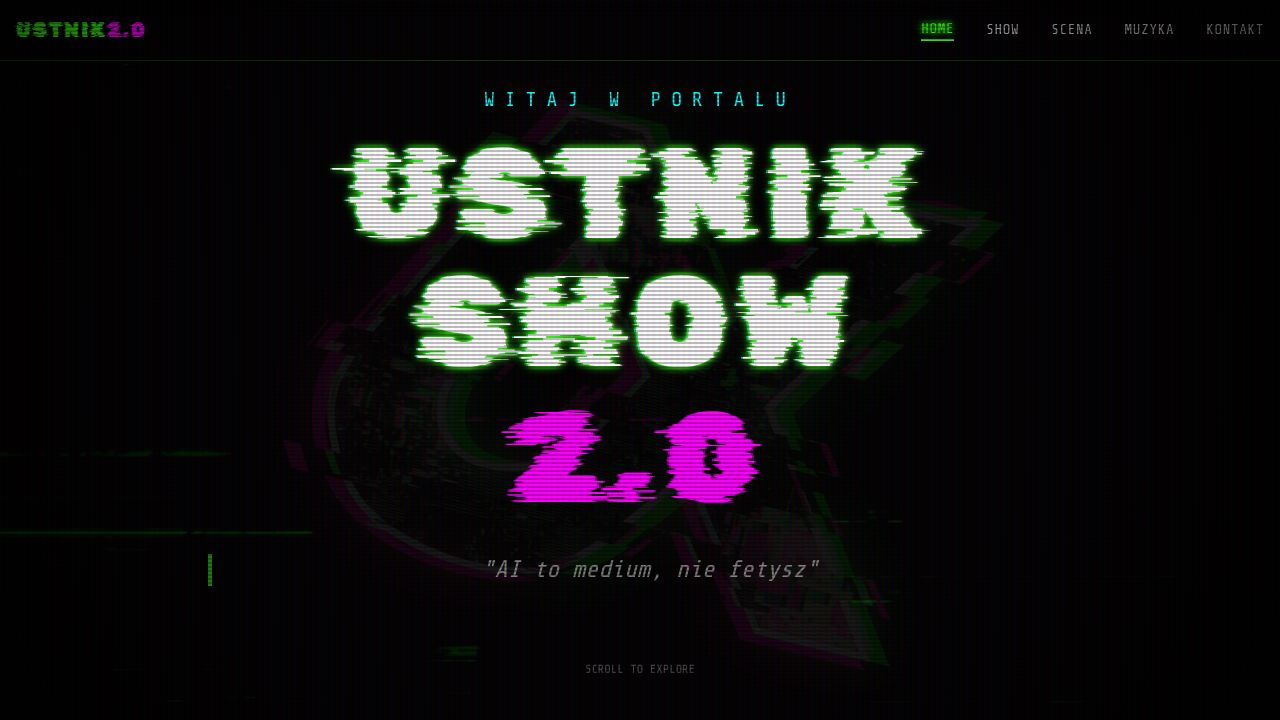
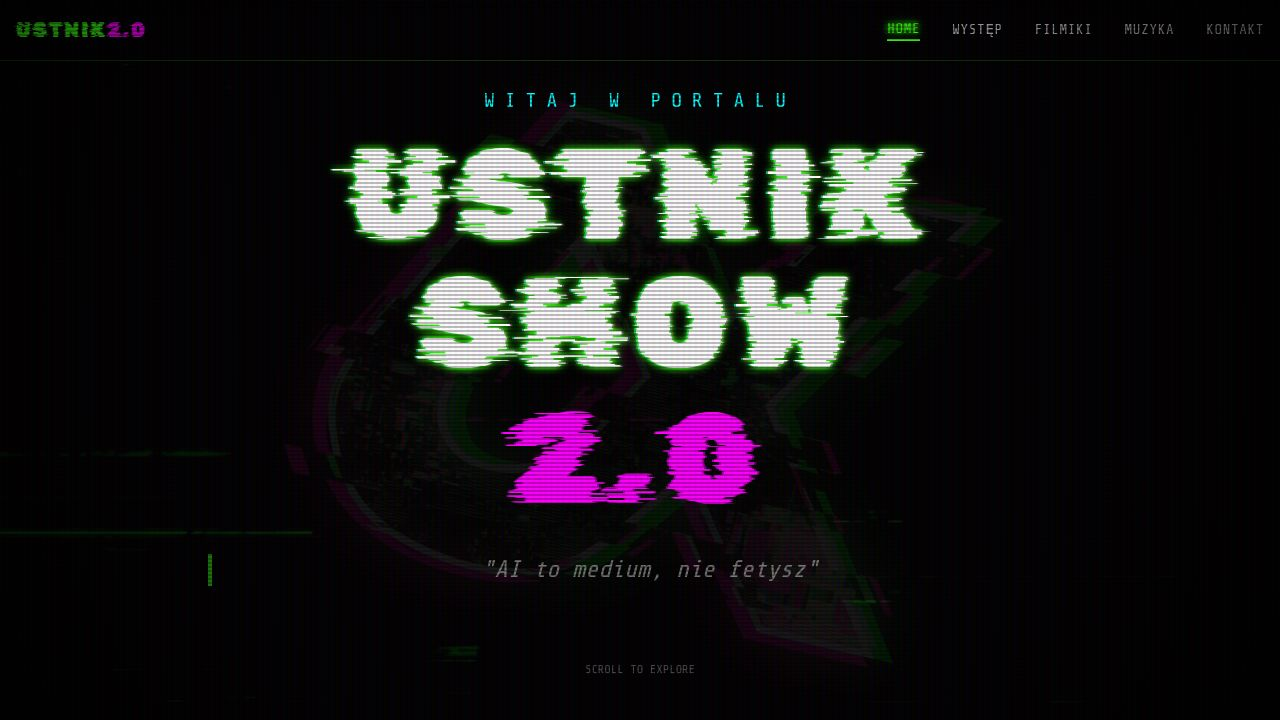
Update website sections to display videos and upcoming events
Add a "FILMIKI" section for video posts and a "WYSTĘP" section with a real-time countdown to upcoming events.

Replit-Commit-Author: Agent
Replit-Commit-Session-Id: eb1ad465-157b-4e7b-b96f-b52d28b02eac
Replit-Commit-Checkpoint-Type: full_checkpoint
Replit-Commit-Event-Id: 6920a06c-e4b1-43c1-b799-ca052abd8890
Replit-Commit-Screenshot-Url: https://storage.googleapis.com/screenshot-production-us-central1/3ac2acd8-c1cb-4639-9b60-42e9942d9181/eb1ad465-157b-4e7b-b96f-b52d28b02eac/Id42pp6
Replit-Helium-Checkpoint-Created: true

diff --git a/client/src/pages/home.tsx b/client/src/pages/home.tsx
@@ -13,8 +13,8 @@ import neonSymbol from "@assets/generated_images/neon_glitch_artistic_symbol.png
 
 const SECTIONS = [
   { id: "home", label: "HOME", icon: Monitor },
-  { id: "show", label: "SHOW", icon: Ticket },
-  { id: "scena", label: "SCENA", icon: Mic2 },
+  { id: "scena", label: "WYSTĘP", icon: Mic2 },
+  { id: "show", label: "FILMIKI", icon: Ticket },
   { id: "muzyka", label: "MUZYKA", icon: Music },
   { id: "kontakt", label: "KONTAKT", icon: Mail },
 ];
@@ -184,6 +184,44 @@ function Section({ id, title, children, className }: { id: string, title: string
   );
 }
 
+function Countdown() {
+  const [timeLeft, setTimeLeft] = useState({
+    days: 12,
+    hours: 5,
+    minutes: 43,
+    seconds: 12
+  });
+
+  useEffect(() => {
+    const timer = setInterval(() => {
+      setTimeLeft(prev => {
+        if (prev.seconds > 0) return { ...prev, seconds: prev.seconds - 1 };
+        if (prev.minutes > 0) return { ...prev, minutes: prev.minutes - 1, seconds: 59 };
+        if (prev.hours > 0) return { ...prev, hours: prev.hours - 1, minutes: 59, seconds: 59 };
+        if (prev.days > 0) return { ...prev, days: prev.days - 1, hours: 23, minutes: 59, seconds: 59 };
+        return prev;
+      });
+    }, 1000);
+    return () => clearInterval(timer);
+  }, []);
+
+  const Unit = ({ value, label }: { value: number, label: string }) => (
+    <div className="flex flex-col items-center px-4 md:px-8 border-r border-white/10 last:border-0">
+      <span className="text-4xl md:text-6xl font-glitch text-neon-blue">{value.toString().padStart(2, '0')}</span>
+      <span className="text-[10px] md:text-xs text-neon-blue/60 tracking-widest mt-2">{label}</span>
+    </div>
+  );
+
+  return (
+    <div className="flex justify-center items-center py-12 bg-black/40 border border-neon-blue/20 box-glow-blue">
+      <Unit value={timeLeft.days} label="DNI" />
+      <Unit value={timeLeft.hours} label="GODZINY" />
+      <Unit value={timeLeft.minutes} label="MINUTY" />
+      <Unit value={timeLeft.seconds} label="SEKUNDY" />
+    </div>
+  );
+}
+
 export default function Home() {
   return (
     <div className="min-h-screen bg-black text-white selection:bg-neon-pink selection:text-white font-mono overflow-x-hidden">
@@ -204,42 +242,47 @@ export default function Home() {
       <main className="relative z-10">
         <Hero />
         
-        <Section id="show" title="THE SHOW" className="bg-black/50">
-          <div className="grid grid-cols-1 md:grid-cols-2 gap-8">
-            <Card className="bg-black/40 border border-neon-green/30 p-8 hover:border-neon-green transition-all duration-300 group">
-              <h3 className="text-2xl text-white font-glitch mb-4 group-hover:text-neon-green">CYBER PERFORMANCE</h3>
-              <p className="text-gray-400 leading-relaxed">
-                Eksperymentalne połączenie sztuki cyfrowej, muzyki elektronicznej i performansu na żywo.
-                Zanurz się w świecie, gdzie granice między rzeczywistością a symulacją przestają istnieć.
-              </p>
-              <div className="mt-6 h-40 bg-neon-green/5 w-full flex items-center justify-center border border-neon-green/10">
-                <span className="text-neon-green/50 text-xs">VISUAL PREVIEW_01</span>
-              </div>
-            </Card>
-            
-            <Card className="bg-black/40 border border-neon-pink/30 p-8 hover:border-neon-pink transition-all duration-300 group">
-              <h3 className="text-2xl text-white font-glitch mb-4 group-hover:text-neon-pink">DIGITAL INSTALLATION</h3>
-              <p className="text-gray-400 leading-relaxed">
-                Interaktywne instalacje reagujące na ruch i dźwięk. 
-                Twoja obecność zmienia kształt cyfrowej przestrzeni.
-              </p>
-              <div className="mt-6 h-40 bg-neon-pink/5 w-full flex items-center justify-center border border-neon-pink/10">
-                <span className="text-neon-pink/50 text-xs">VISUAL PREVIEW_02</span>
-              </div>
-            </Card>
+        <Section id="scena" title="WYSTĘP">
+          <div className="space-y-12">
+            <div className="text-center space-y-4">
+              <h3 className="text-2xl font-mono text-neon-blue tracking-[0.3em]">NASTĘPNA TRANSMISJA LIVE</h3>
+              <Countdown />
+            </div>
+
+            <div className="grid grid-cols-1 md:grid-cols-2 gap-8">
+              <Card className="bg-black/40 border border-neon-blue/30 p-8 hover:border-neon-blue transition-all duration-300 group">
+                <div className="flex justify-between items-start mb-4">
+                  <h3 className="text-2xl text-white font-glitch group-hover:text-neon-blue">SESSION_042</h3>
+                  <span className="text-neon-blue text-xs border border-neon-blue px-2 py-1 animate-pulse">UPCOMING</span>
+                </div>
+                <p className="text-gray-400 leading-relaxed mb-6 font-mono">
+                  Data: 2025.05.20 <br/>
+                  Lokalizacja: PORTAL_VIRTUAL_A <br/>
+                  Typ: Immersive AV Live Set
+                </p>
+                <Button className="w-full bg-transparent border border-neon-blue text-neon-blue hover:bg-neon-blue hover:text-black">DODAJ DO KALENDARZA</Button>
+              </Card>
+            </div>
           </div>
         </Section>
 
-        <Section id="scena" title="SCENA">
-          <div className="relative border border-white/20 h-[500px] w-full bg-black/50 flex items-center justify-center overflow-hidden group">
-            <div className="absolute inset-0 bg-[radial-gradient(circle,rgba(57,255,20,0.1)_0%,transparent_70%)] opacity-0 group-hover:opacity-100 transition-opacity duration-700" />
-            
-            <div className="text-center z-10">
-              <GlitchText text="LIVE STREAM" className="text-4xl md:text-6xl mb-4" color="blue" />
-              <p className="text-neon-blue font-mono tracking-widest animate-pulse">OFFLINE // NEXT EVENT: 2025.05.20</p>
-            </div>
-            
-            <div className="absolute bottom-0 w-full h-1 bg-gradient-to-r from-transparent via-neon-blue to-transparent" />
+        <Section id="show" title="FILMIKI" className="bg-black/50">
+          <div className="grid grid-cols-1 md:grid-cols-3 gap-6">
+            {[1, 2, 3, 4, 5, 6].map((i) => (
+              <Card key={i} className="bg-black/40 border border-neon-pink/20 hover:border-neon-pink transition-all duration-300 group overflow-hidden cursor-pointer">
+                <div className="aspect-video bg-neon-pink/5 flex items-center justify-center relative overflow-hidden">
+                  <div className="absolute inset-0 bg-gradient-to-t from-black/80 to-transparent opacity-0 group-hover:opacity-100 transition-opacity" />
+                  <Ticket className="text-neon-pink/20 group-hover:scale-110 transition-transform duration-500" size={48} />
+                  <div className="absolute bottom-4 left-4 z-10 opacity-0 group-hover:opacity-100 transition-opacity">
+                    <span className="text-xs text-neon-pink font-mono">PLAY VIDEO_0{i}</span>
+                  </div>
+                </div>
+                <div className="p-4">
+                  <h4 className="font-glitch text-lg text-white group-hover:text-neon-pink transition-colors">ARCHIWUM_V0{i}</h4>
+                  <p className="text-[10px] text-gray-500 font-mono mt-1">RECORDED: 2025.01.{10+i} // 4K_RAW</p>
+                </div>
+              </Card>
+            ))}
           </div>
         </Section>
 

diff --git a/client/src/index.css b/client/src/index.css
@@ -63,6 +63,9 @@
   .box-glow {
     box-shadow: 0 0 10px var(--color-neon-green), inset 0 0 5px var(--color-neon-green);
   }
+  .box-glow-blue {
+    box-shadow: 0 0 15px var(--color-neon-blue), inset 0 0 5px var(--color-neon-blue);
+  }
 }
 
 /* CRT Scanline Animation */
